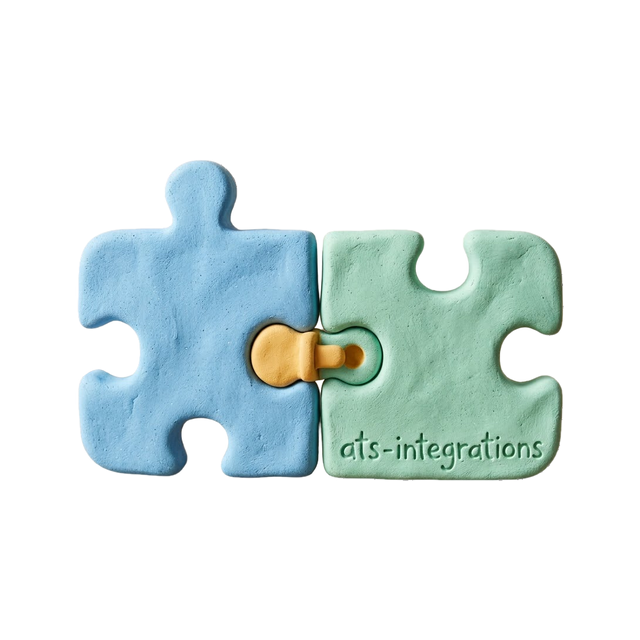
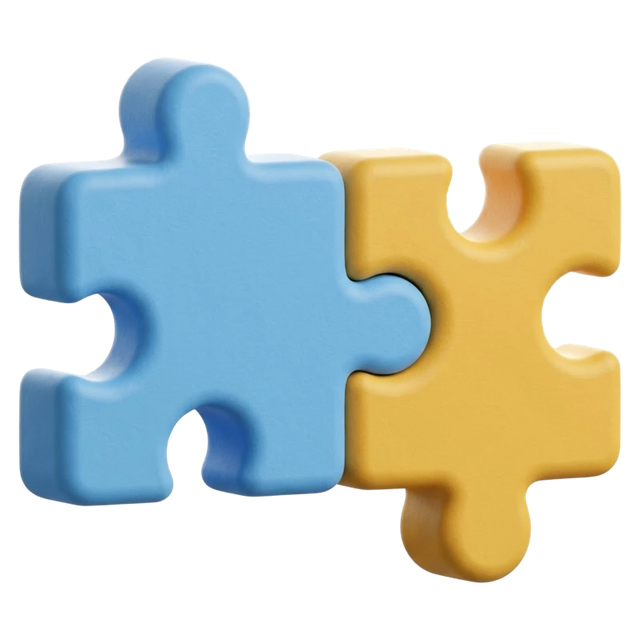
Clay v2: ats-integrations puzzle pieces

diff --git a/docs/CLAY-PROMPTS-V2.md b/docs/CLAY-PROMPTS-V2.md
@@ -257,6 +257,8 @@ off-white = paper, neutral parts.
 > Subject: three chunky rounded person figures (round head, rounded shoulders, like simple pawns) standing close together in a shallow V on one small round base, the middle one slightly taller and in front, turned about 20° as a group; each figure fully visible, none covering another's head. Sky blue, mint and gold bodies (#6CB8F0, #7FD8B4, #FFC94D) with white heads, an off-white base (#F4F1EC). No badges, no cards.
 
 **ats-integrations**
+> ✅ Round 1 installed (2026-10-30).
+>
 > Subject: two chunky rounded puzzle pieces fully joined together, the tab sitting inside the slot. Sky blue piece (#6CB8F0) and gold piece (#FFC94D).
 
 **reports**
